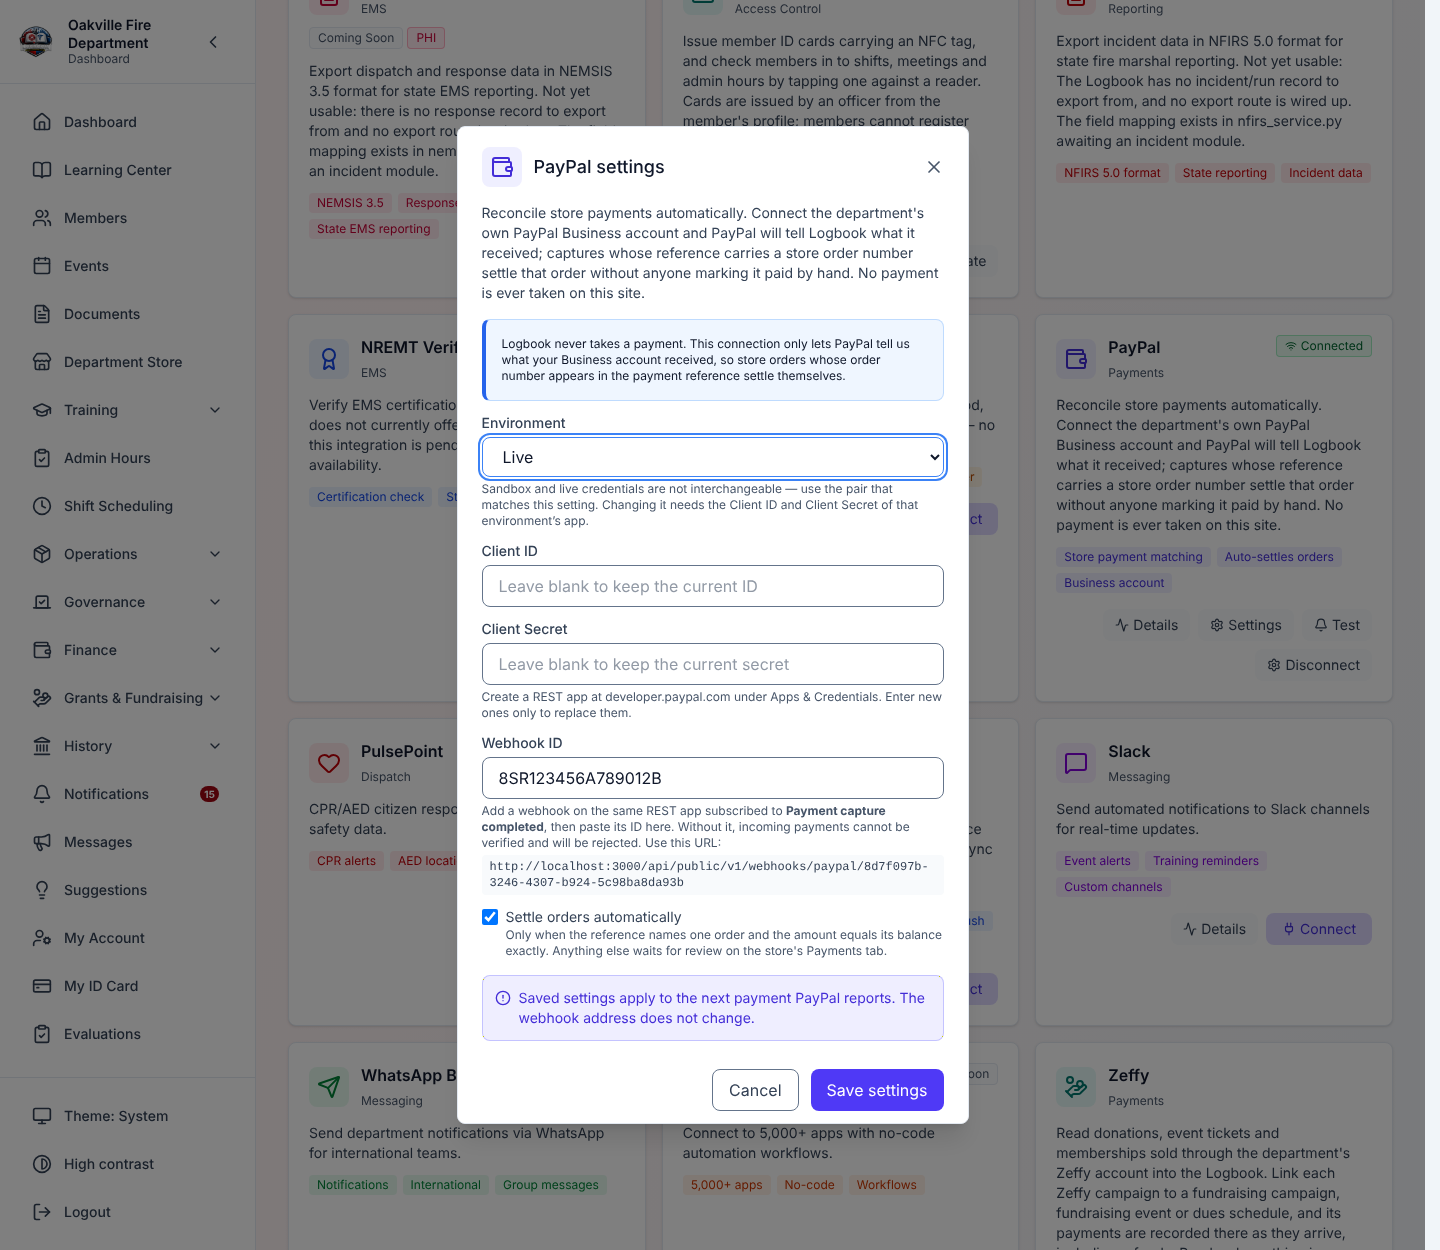
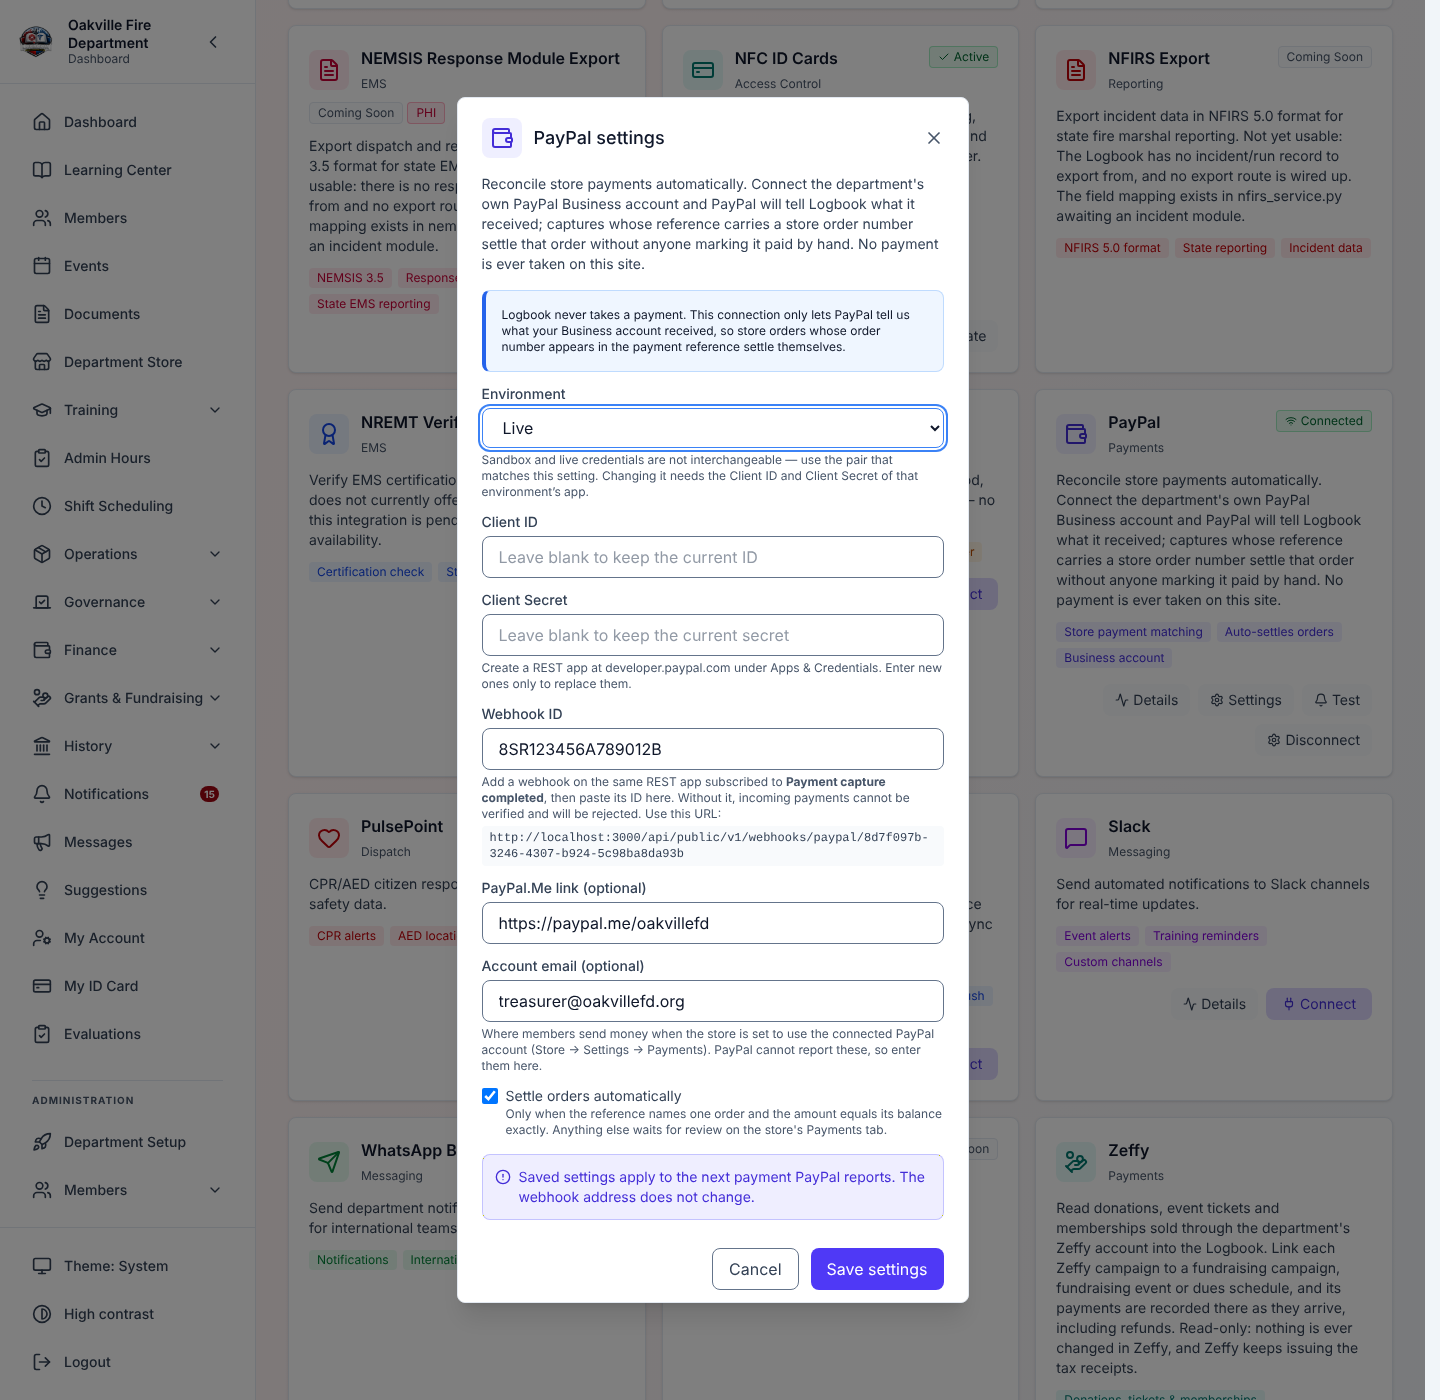
Document the store's PayPal account choice and re-shoot the PayPal dialogs
Guide 18 explains the choice and its fallback, guide 16 and
STOREFRONT_PAYPAL.md the integration's new fields and how the button
decides, and the PayPal wiki page gains the store button. The two
PayPal dialog shots are re-taken at a taller frame with the new fields
and captions; 18-07-store-paypal-account pictures the choice. The
change audit and recent changes record the pass.

Claude-Session: https://claude.ai/code/session_01Tku43B6su7WKAZ4WRiBmC6

diff --git a/docs/training/16-integrations.md b/docs/training/16-integrations.md
@@ -427,12 +427,13 @@ Venmo, Cash App, Zelle, cash and checks.
 
 ### Configuration
 
-| Field                             | What to enter                                                                                                                           |
-| --------------------------------- | --------------------------------------------------------------------------------------------------------------------------------------- |
-| **Environment**                   | **Sandbox (testing)** or **Live**. Starts on sandbox. Sandbox and live credentials do not mix                                           |
-| **Client ID** / **Client Secret** | From a REST app at [developer.paypal.com](https://developer.paypal.com) → **Apps & Credentials**. Stored securely and never shown again |
-| **Webhook ID**                    | **Required.** PayPal gives you this when you add the webhook (below). Without it, payments cannot be checked and are refused            |
-| **Settle orders automatically**   | On at first. See the matching rules below                                                                                               |
+| Field                                             | What to enter                                                                                                                                                                                  |
+| ------------------------------------------------- | ---------------------------------------------------------------------------------------------------------------------------------------------------------------------------------------------- |
+| **Environment**                                   | **Sandbox (testing)** or **Live**. Starts on sandbox. Sandbox and live credentials do not mix                                                                                                  |
+| **Client ID** / **Client Secret**                 | From a REST app at [developer.paypal.com](https://developer.paypal.com) → **Apps & Credentials**. Stored securely and never shown again                                                        |
+| **Webhook ID**                                    | **Required.** PayPal gives you this when you add the webhook (below). Without it, payments cannot be checked and are refused                                                                   |
+| **Settle orders automatically**                   | On at first. See the matching rules below                                                                                                                                                      |
+| **PayPal.Me link** / **Account email** (optional) | Where members send money when the store uses the connected account (**Store → Settings → Payments**). PayPal cannot report these, so you enter them. The link must be a paypal.me link or name |
 
 **To change any of these later**, select **Settings** on the connected PayPal
 card. The environment, Webhook ID and automatic settlement show their saved
@@ -445,7 +446,7 @@ does not change, and the new settings apply to the next payment PayPal reports.
 > refuses the change without them, because the old pair would not work in the
 > other environment and every payment would then be rejected.
 
-![PayPal settings on a connected card: Environment Live with the note that changing it needs that environment's Client ID and Client Secret, the Client ID and Client Secret boxes reading Leave blank to keep the current ID and secret, the Webhook ID filled in, Settle orders automatically ticked, and the notice that saved settings apply to the next payment PayPal reports](./images/16-26-paypal-settings.png)
+![PayPal settings on a connected card: Environment Live with the note that changing it needs that environment's Client ID and Client Secret, the Client ID and Client Secret boxes reading Leave blank to keep the current ID and secret, the Webhook ID filled in, the PayPal.Me link and account email the store's PayPal button can use, Settle orders automatically ticked, and the notice that saved settings apply to the next payment PayPal reports](./images/16-26-paypal-settings.png)
 
 **Test** checks the credentials. It gives a _warning_, not a plain success, if
 the Webhook ID is missing, because credentials alone match nothing.
@@ -527,7 +528,7 @@ each entry:
 - **Dismiss** — for money that is not a store order, such as a donation, dues
   or a refund. An applied payment cannot be dismissed.
 
-![PayPal connect dialog with environment and credential fields](./images/16-06-paypal-connect.png)
+![PayPal connect dialog with environment and credential fields, the Webhook ID and its address, and the optional PayPal.Me link and account email for the store's PayPal button](./images/16-06-paypal-connect.png)
 
 For the whole store walkthrough, see [Department Store](./18-storefront.md).
 

diff --git a/docs/CHANGE_AUDIT_2026-11.md b/docs/CHANGE_AUDIT_2026-11.md
@@ -7,14 +7,17 @@ new file. The plain-language handoff for each pass is in
 
 ## Change audit: PayPal Settings, November 14, 2026
 
-A targeted pass for one change: a **Settings** button on a connected PayPal
-card, the PayPal counterpart of Zeffy's from November 13. `CHANGELOG.md` stays
+A targeted pass for the PayPal changes of November 14: a **Settings** button on
+a connected PayPal card, the PayPal counterpart of Zeffy's from November 13, and
+the store's choice of PayPal account. `CHANGELOG.md` stays
 closed.
 
-| Change                                                                                                                                                                            | Guide | Disposition                                         |
-| --------------------------------------------------------------------------------------------------------------------------------------------------------------------------------- | ----- | --------------------------------------------------- |
-| **Settings** on a connected PayPal card: edit the environment, credentials, Webhook ID and automatic settlement without disconnecting; blank credential boxes keep the saved ones | 16    | Paragraph written; `16-26-paypal-settings` captured |
-| Switching PayPal between sandbox and live now needs that environment's Client ID and Client Secret in the same save, on Settings or a reconnect; refused with 422 otherwise       | 16    | Note written; `docs/STOREFRONT_PAYPAL.md` updated   |
+| Change                                                                                                                                                                                                                                                                                                                 | Guide  | Disposition                                                                          |
+| ---------------------------------------------------------------------------------------------------------------------------------------------------------------------------------------------------------------------------------------------------------------------------------------------------------------------- | ------ | ------------------------------------------------------------------------------------ |
+| **Settings** on a connected PayPal card: edit the environment, credentials, Webhook ID and automatic settlement without disconnecting; blank credential boxes keep the saved ones                                                                                                                                      | 16     | Paragraph written; `16-26-paypal-settings` captured                                  |
+| Switching PayPal between sandbox and live now needs that environment's Client ID and Client Secret in the same save, on Settings or a reconnect; refused with 422 otherwise                                                                                                                                            | 16     | Note written; `docs/STOREFRONT_PAYPAL.md` updated                                    |
+| PayPal integration gains an optional PayPal.Me link and account email; the store's **PayPal account members pay into** chooses the connected account or one entered on the store, falling back to the store's own when the connected one has neither (new column `store_settings.paypal_use_connected`, default false) | 16, 18 | Sections written; `16-06` and `16-26` re-shot, `18-07-store-paypal-account` captured |
+| PayPal had no wiki page                                                                                                                                                                                                                                                                                                | none   | `wiki/Integration-PayPal.md` written                                                 |
 
 **Screenshots:** none queued.
 

diff --git a/wiki/Integration-PayPal.md b/wiki/Integration-PayPal.md
@@ -27,6 +27,9 @@ The full operator reference is
   days of payments and records any the webhook missed.
 - **Settings on a connected card.** The environment, credentials, Webhook ID
   and automatic settlement can be changed without disconnecting.
+- **The store's button can use it.** The store can send members to the
+  connected account's PayPal.Me link, so its payments are the ones
+  reconciled.
 
 ---
 
@@ -97,13 +100,15 @@ pay an order twice.
 
 Stored in the `integrations` table with `integration_type = 'paypal'`.
 
-| Field                 | Where              | Description                                        |
-| --------------------- | ------------------ | -------------------------------------------------- |
-| `environment`         | `config`           | `sandbox` (default) or `live`                      |
-| `client_id`           | `encrypted_config` | REST app Client ID. Never returned by the API      |
-| `client_secret`       | `encrypted_config` | REST app Secret. Never returned by the API         |
-| `webhook_id`          | `config`           | Required to verify deliveries                      |
-| `auto_apply_payments` | `config`           | Settle exact matches automatically (on by default) |
+| Field                 | Where              | Description                                             |
+| --------------------- | ------------------ | ------------------------------------------------------- |
+| `environment`         | `config`           | `sandbox` (default) or `live`                           |
+| `client_id`           | `encrypted_config` | REST app Client ID. Never returned by the API           |
+| `client_secret`       | `encrypted_config` | REST app Secret. Never returned by the API              |
+| `webhook_id`          | `config`           | Required to verify deliveries                           |
+| `auto_apply_payments` | `config`           | Settle exact matches automatically (on by default)      |
+| `paypal_me_url`       | `config`           | Optional. The PayPal.Me link the store's button can use |
+| `account_email`       | `config`           | Optional. The account email the store's button can use  |
 
 Payments are kept in `store_payment_events`, unique per department and
 provider on PayPal's capture ID.
@@ -119,6 +124,30 @@ provider on PayPal's capture ID.
 | No order found        | The reference had no order number                                    |
 | Needs a decision      | The amount does not match, or the order is cancelled or already paid |
 | Dismissed             | An administrator decided it was not a store payment                  |
+
+---
+
+## The Store's PayPal Button
+
+The store's **Pay** button for PayPal sends members to a PayPal.Me link. Under
+**Store → Settings → Payments**, **PayPal account members pay into** chooses
+which:
+
+- **The account entered below**: the link and email typed on the store. The
+  default, and how every store worked before 2026-11-14.
+- **The connected PayPal account**: the `paypal_me_url` and `account_email`
+  above. PayPal's API cannot report an account's PayPal.Me link, so an
+  administrator enters them on the integration.
+
+With the connected account chosen, the store's own link and email are the
+fallback whenever the integration is disconnected or has neither (owner
+decision, 2026-11-14), so a disconnect does not take the button away from
+members who owe. The choice is `store_settings.paypal_use_connected`, and
+`GET /api/v1/store/settings` reports the connected account as
+`connectedPaypal` so the screen can say what the button will do.
+
+Only the connected account's payments are reconciled. A store that sends
+members to a different PayPal account marks those orders paid by hand.
 
 ---
 

diff --git a/docs/STOREFRONT_PAYPAL.md b/docs/STOREFRONT_PAYPAL.md
@@ -54,12 +54,13 @@ Copy the **Webhook ID** PayPal assigns.
 
 **Settings → Integrations → PayPal → Connect**, then fill in:
 
-| Field                       | Notes                                                                            |
-| --------------------------- | -------------------------------------------------------------------------------- |
-| Environment                 | Must match which credentials you copied. Defaults to sandbox.                    |
-| Client ID / Secret          | Stored encrypted; never echoed back. Blank in **Settings** keeps what is stored. |
-| Webhook ID                  | **Required.** Without it, deliveries cannot be verified and are rejected.        |
-| Settle orders automatically | On by default. See the matching rules below.                                     |
+| Field                       | Notes                                                                                    |
+| --------------------------- | ---------------------------------------------------------------------------------------- |
+| Environment                 | Must match which credentials you copied. Defaults to sandbox.                            |
+| Client ID / Secret          | Stored encrypted; never echoed back. Blank in **Settings** keeps what is stored.         |
+| Webhook ID                  | **Required.** Without it, deliveries cannot be verified and are rejected.                |
+| Settle orders automatically | On by default. See the matching rules below.                                             |
+| PayPal.Me link / email      | Optional, public. What the store's PayPal button uses when set to the connected account. |
 
 **Test Connection** confirms the credentials work. It deliberately reports a
 warning rather than a plain success when the webhook ID is missing, because
@@ -178,3 +179,23 @@ Two behaviours worth knowing:
 Where the link cannot carry the order number, the member is shown the
 reference to type. That reference is what lets a treasurer match the payment,
 so it is never hidden.
+
+### Which PayPal account the button uses
+
+`store_settings.paypal_use_connected` (added 2026-11-14, default false) picks
+where the PayPal button sends members:
+
+- **false** — the store's own `paypal_me_url` and `paypal_email`, as before.
+- **true** — the `paypal_me_url` and `account_email` in the connected PayPal
+  integration's public config. If the integration is not connected and
+  enabled, or has neither field, the store's own fields are the fallback
+  (owner decision, 2026-11-14), so a disconnect does not take the button away
+  from members who owe.
+
+`StorefrontService.get_settings` loads the connected account once per
+request; `store_paypal_account` in `app/utils/storefront_payments.py` applies
+the rule, and every Pay button, the pre-order summary and the payment emails
+go through it. `GET /store/settings` returns the account as `connectedPaypal`
+(null when PayPal is not connected), so the settings screen states what the
+button will do. Only the connected account's payments are reconciled: a store
+sending members to a different PayPal account marks those orders paid by hand.

diff --git a/docs/training/18-storefront.md b/docs/training/18-storefront.md
@@ -171,6 +171,27 @@ something.
 **General payment note (shown with every order)** adds a line of your own to
 every order.
 
+#### Which PayPal account members pay into
+
+With PayPal ticked, choose where its button sends members:
+
+- **The account entered below** — the PayPal.Me link and email you type here.
+  This is how every store worked before November 14, 2026, and stays the
+  default.
+- **The connected PayPal account** — the PayPal.Me link and email entered on
+  the PayPal integration (**Integrations → PayPal → Settings**). Payments to it
+  are matched to orders automatically; see
+  [Automatic PayPal Reconciliation](#automatic-paypal-reconciliation).
+
+With **the connected PayPal account** chosen, the boxes below become the
+**fallback**: members are sent there if PayPal is disconnected, or if the
+integration has no link or email yet. A note under the choice says which
+applies today. With **the account entered below** chosen while PayPal is
+connected, the note reminds you that payments to that other account are not
+matched automatically, so you mark them paid by hand.
+
+![PayPal account members pay into, with The connected PayPal account chosen and the note that members are sent to https://paypal.me/oakvillefd and treasurer@oakvillefd.org, and that payments to it are matched to orders automatically](./images/18-07-store-paypal-account.png)
+
 Cash App and Zelle details are **checked when you save**. A mistyped
 `$cashtag` gives an error, rather than a button that quietly goes missing.
 

diff --git a/docs/training/SCREENSHOT_CURRENCY.md b/docs/training/SCREENSHOT_CURRENCY.md
@@ -242,6 +242,15 @@ button. It uses the same mock (`showIntegrationConnected` in the manifest),
 with the form's example Webhook ID and the live environment prefilled, so the
 values pictured are not a real PayPal app.
 
+**PayPal.Me link and account email, 2026-11-14.** The PayPal integration
+gained both fields, so `16-06-paypal-connect` and `16-26-paypal-settings` were
+re-shot at a taller 1400px frame (the dialog's buttons fell below 1100) and
+their captions rewritten. `18-07-store-paypal-account` is new: the store's
+**PayPal account members pay into** choice, with the store settings read
+answered as "the connected account" and that account's link and email filled
+in. `18-02-store-admin` was re-captured to check it and put back: the demo
+store does not accept PayPal, so the choice is not in its frame.
+
 ## The October 16 – November 1 queues, captured 2026-11-02
 
 Every queue from the October 16 – 18 pass to the October 31 – November 1 pass

diff --git a/docs/training/SCREENSHOT_STATUS.md b/docs/training/SCREENSHOT_STATUS.md
@@ -9,7 +9,7 @@ image still matches the application is tracked by hand in
 [SCREENSHOT_CURRENCY.md](./SCREENSHOT_CURRENCY.md) — this file is
 regenerated wholesale, so that audit cannot live here.
 
-**935 of 935 placeholders filled** (0 remaining).
+**936 of 936 placeholders filled** (0 remaining).
 
 | Guide | Captured | Remaining |
 |-------|---------:|----------:|
@@ -31,6 +31,6 @@ regenerated wholesale, so that audit cannot live here.
 | [15-prospective-members.md](./15-prospective-members.md) | 47 | 0 |
 | [16-integrations.md](./16-integrations.md) | 24 | 0 |
 | [17-privacy-data-rights.md](./17-privacy-data-rights.md) | 7 | 0 |
-| [18-storefront.md](./18-storefront.md) | 9 | 0 |
-| **Total** | **935** | **0** |
+| [18-storefront.md](./18-storefront.md) | 10 | 0 |
+| **Total** | **936** | **0** |
 

diff --git a/wiki/Recent-Changes-2026-11.md b/wiki/Recent-Changes-2026-11.md
@@ -16,6 +16,11 @@ The engineering audit is
 - **Sandbox and live**: switching PayPal between them now needs that
   environment's Client ID and Client Secret in the same save. Before, the old
   pair was kept and every payment would have been rejected.
+- **Store PayPal button**: under **Store → Settings → Payments**, choose
+  whether members pay into **the connected PayPal account** (its PayPal.Me link
+  and email, entered on the PayPal integration) or an account entered on the
+  store. If the connected account cannot supply a link, the store's own is
+  used. See [PayPal Integration](Integration-PayPal).
 
 ## Recent changes: November 13, 2026 (Zeffy)
 
